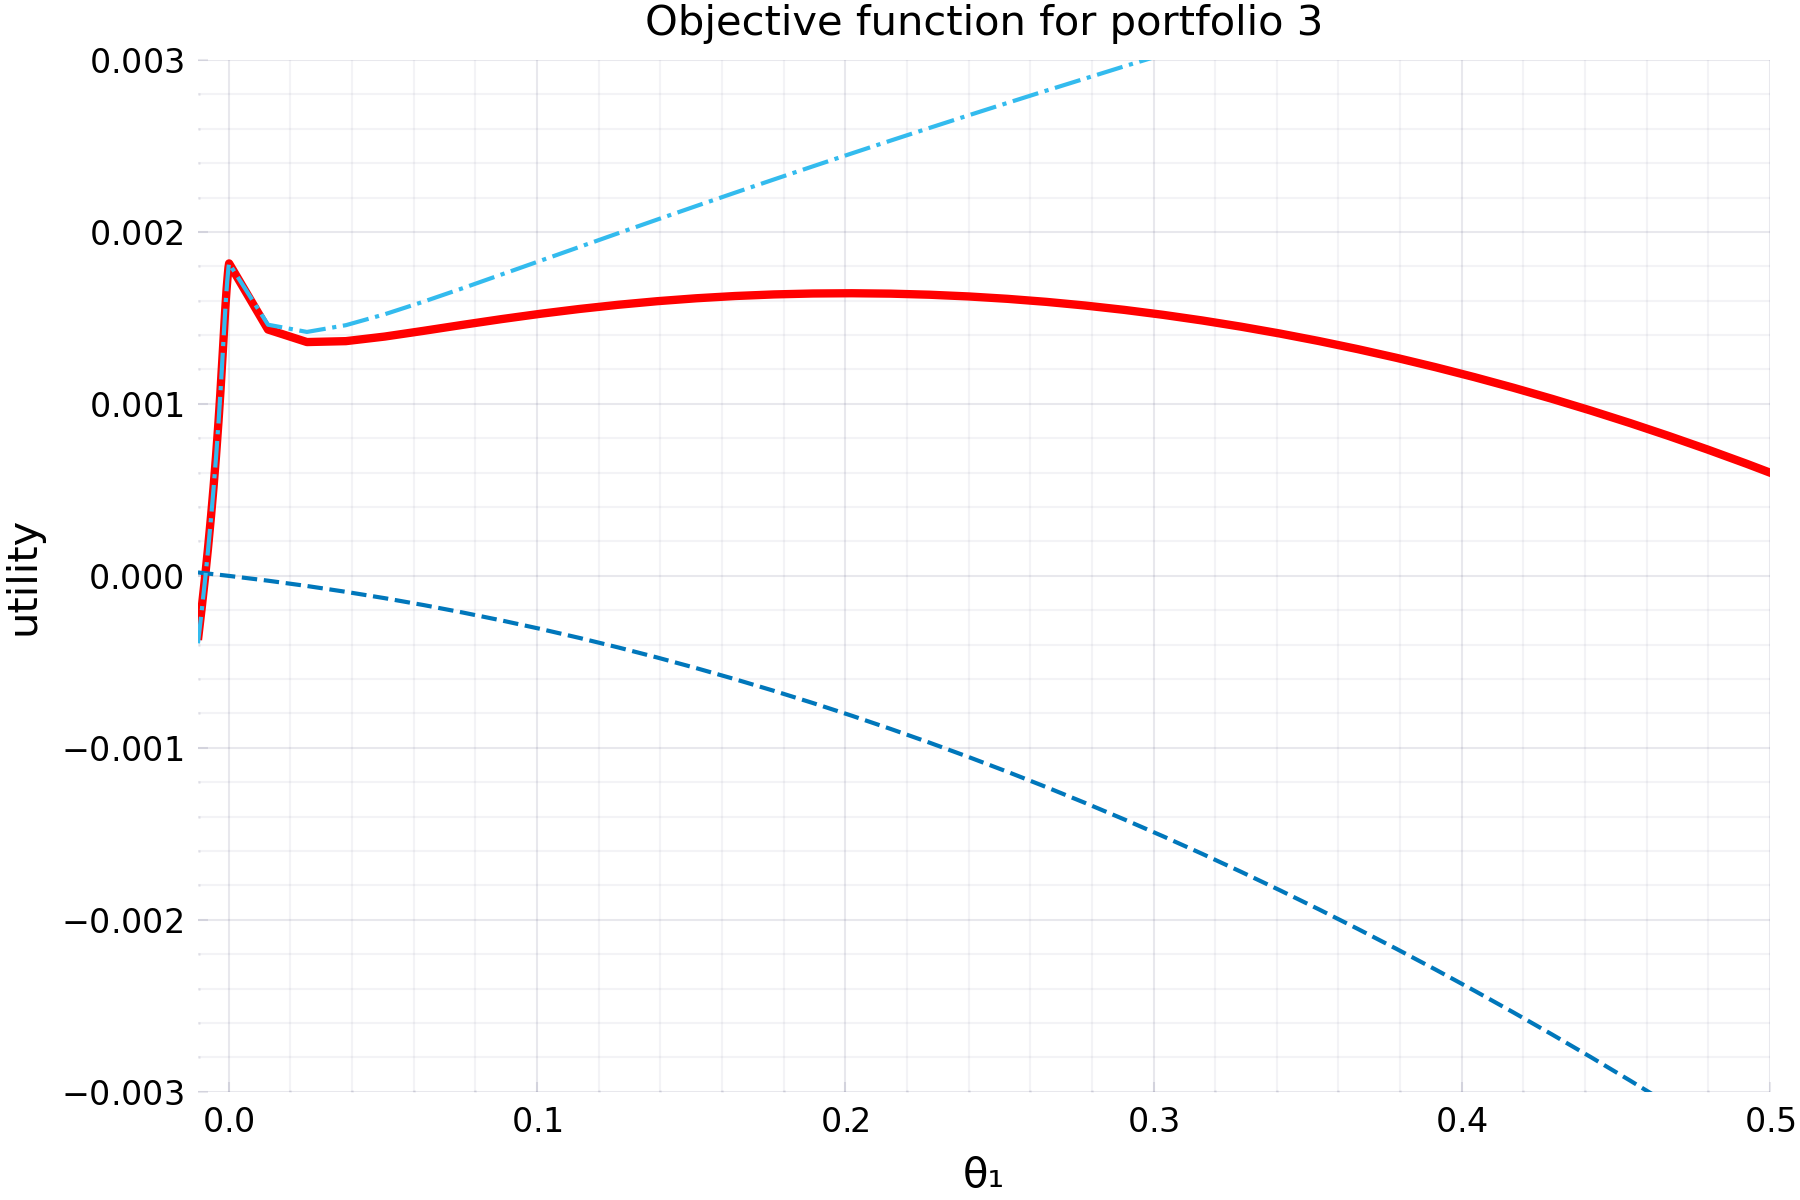
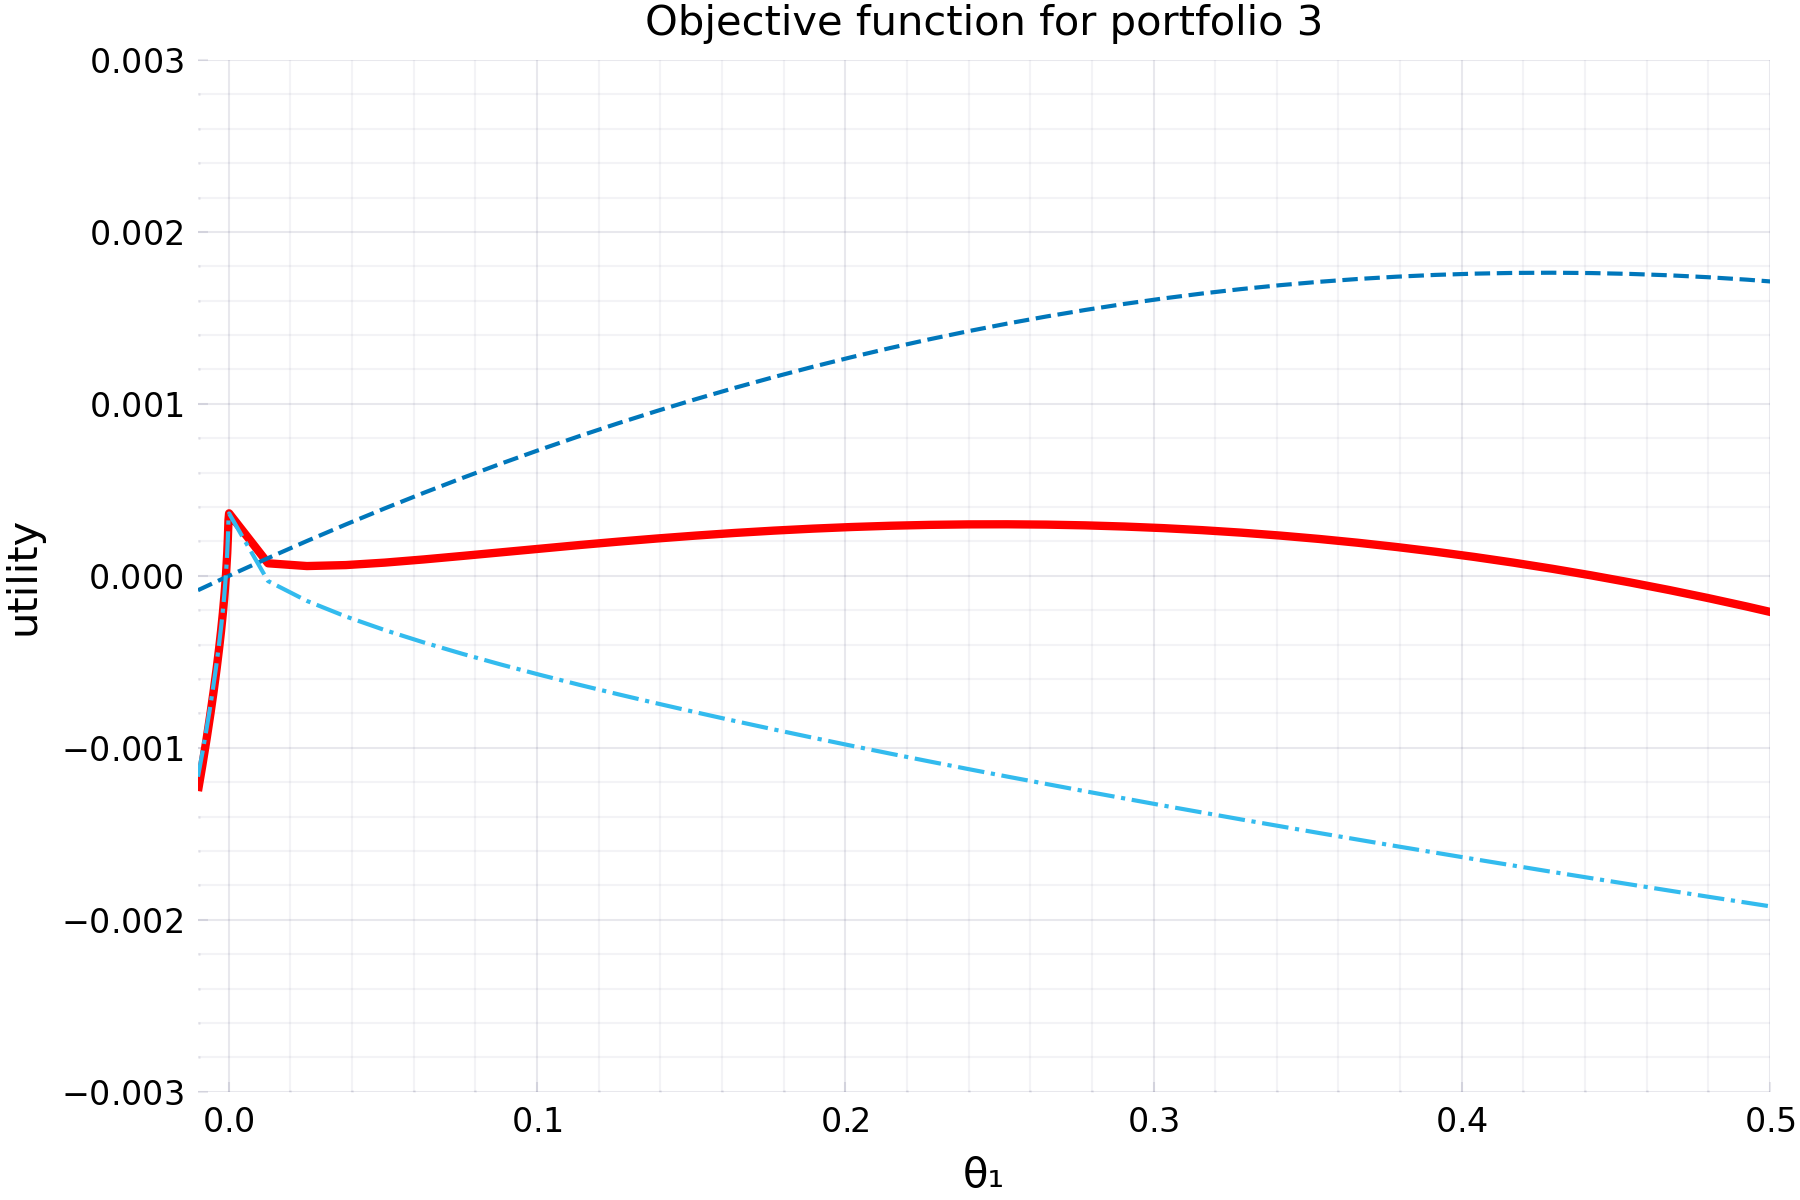
changing N=100 to N=1000

diff --git a/py_code/finding_S_z.py b/py_code/finding_S_z.py
@@ -43,18 +43,10 @@ print("\nAverage proportions across all months:")
 print(avg_portfolio_props)
 
 #Rounds the average proportions to even numbers
-N = 100
-pr_DI = 3
-pr_HY = 19
-pr_IG = 78
-# N = 1000
-# pr_DI = 30
-# pr_HY = 190
-# pr_IG = 780
-# N = 5000
-# pr_DI = 150
-# pr_HY = 950
-# pr_IG = 3900
+N = 1000
+pr_DI = 30
+pr_HY = 190
+pr_IG = 780
 
 # For each month and portfolio, sum the market_value_past
 monthly_mv = (model_data_cgo.groupby(['eom', 'portfolio'])['market_value_past'].sum().reset_index()) #Finds the total market value of each portfolio during that month
